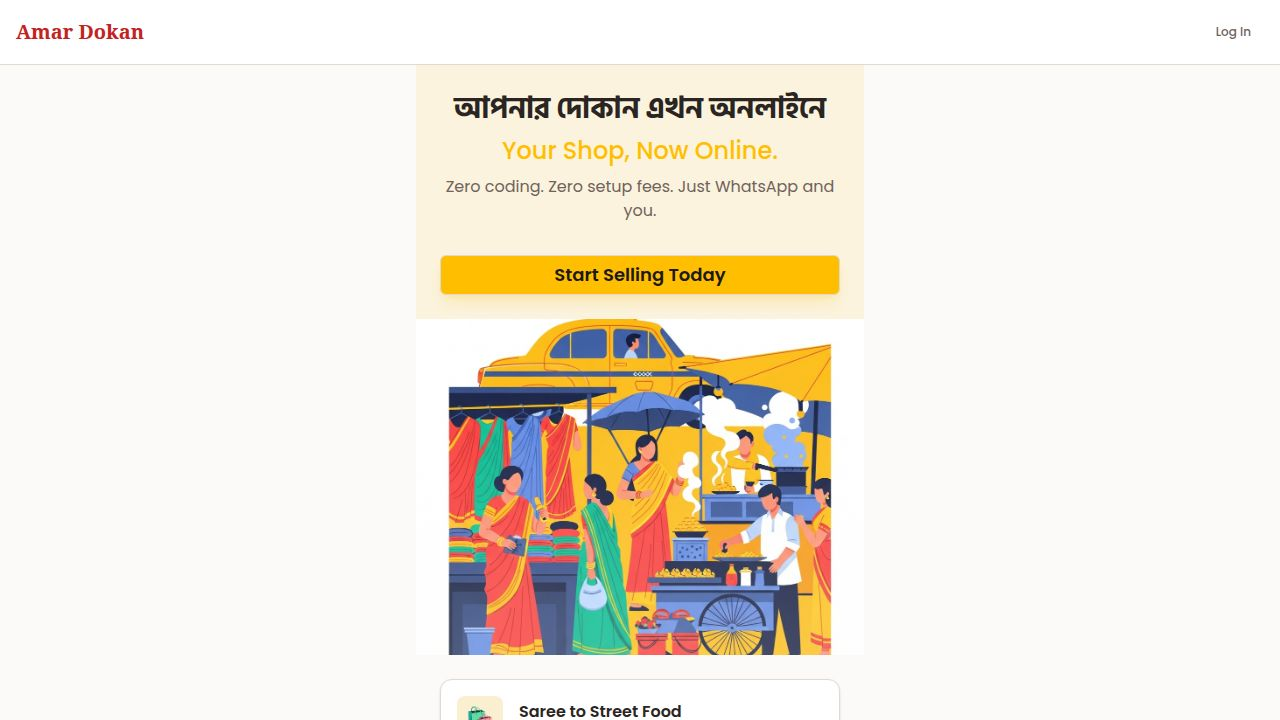
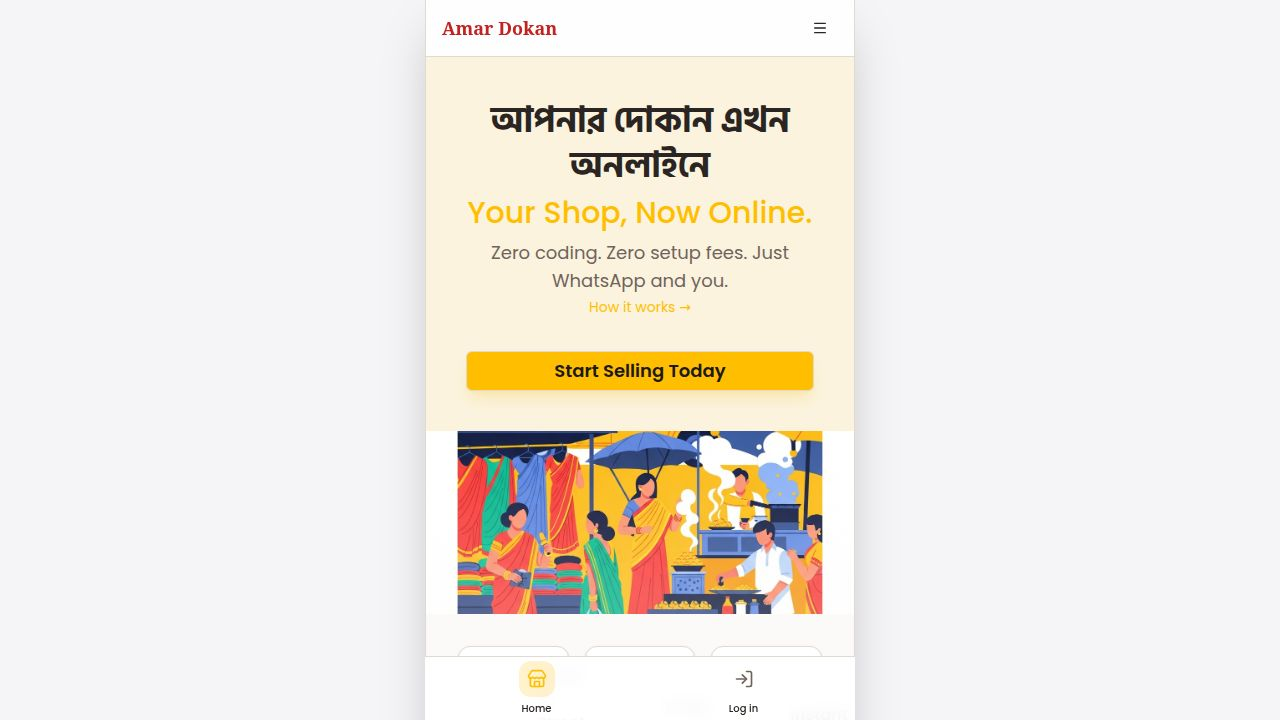
Adapt application for mobile use with new navigation and layout
Refactors the UI to create a mobile-first experience by implementing a fixed bottom navigation, centering content within a mobile viewport, and adjusting styles for better ergonomics. Updates `Layout.tsx`, `index.css`, and `package.json` dependencies.

Replit-Commit-Author: Agent
Replit-Commit-Session-Id: f4096d42-7b44-4de4-9cac-7a31e60f3b27
Replit-Commit-Checkpoint-Type: full_checkpoint
Replit-Commit-Event-Id: ce4902e4-e2da-414b-917a-235175e72699
Replit-Commit-Screenshot-Url: https://storage.googleapis.com/screenshot-production-us-central1/d6604bbd-61ac-47e6-9886-1414db4e4f31/f4096d42-7b44-4de4-9cac-7a31e60f3b27/MCDurxi
Replit-Helium-Checkpoint-Created: true

diff --git a/client/src/components/Layout.tsx b/client/src/components/Layout.tsx
@@ -41,63 +41,22 @@ export function Layout({ children, variant = "default", showSellerNav = false }:
   ];
 
   return (
-    <div className="min-h-screen bg-background flex flex-col">
+    <div className="min-h-screen bg-background flex flex-col max-w-[430px] mx-auto shadow-2xl border-x overflow-hidden relative">
       <header
         className={cn(
           "sticky top-0 z-50 border-b bg-white/95 backdrop-blur supports-[backdrop-filter]:bg-white/80",
           isMinimal && "py-2"
         )}
       >
-        <div className="w-full max-w-6xl mx-auto px-4 flex justify-between items-center h-14">
-          <Link href="/" className="font-bold text-xl text-secondary font-serif hover:opacity-90">
+        <div className="w-full px-4 flex justify-between items-center h-14">
+          <Link href="/" className="font-bold text-lg text-secondary font-serif hover:opacity-90">
             Amar Dokan
           </Link>
-
-          {/* Desktop nav */}
-          <nav className="hidden sm:flex items-center gap-1">
-            {navLinks.map((link) => {
-              const { href, label, icon: Icon, isLogout } = link as typeof link & { isLogout?: boolean };
-              if (isLogout) {
-                return (
-                  <Button
-                    key="logout"
-                    variant="ghost"
-                    size="sm"
-                    className="text-muted-foreground hover:text-foreground"
-                    onClick={() => {
-                      logout().catch(() => {});
-                      clearStoredStore();
-                      window.location.href = "/";
-                    }}
-                  >
-                    <Icon className="w-4 h-4 mr-1.5 sm:mr-0 sm:hidden" />
-                    {label}
-                  </Button>
-                );
-              }
-              return (
-                <Link key={href} href={href}>
-                  <Button
-                    variant={location === href ? "secondary" : "ghost"}
-                    size="sm"
-                    className={cn(
-                      "text-muted-foreground",
-                      location === href && "text-secondary-foreground bg-secondary hover:bg-secondary/80 hover:text-shadow-muted"
-                    )}
-                  >
-                    <Icon className="w-4 h-4 mr-1.5 sm:mr-0 sm:hidden" />
-                    {label}
-                  </Button>
-                </Link>
-              );
-            })}
-          </nav>
 
           {/* Mobile menu trigger */}
           <Button
             variant="ghost"
             size="icon"
-            className="sm:hidden"
             onClick={() => setMobileMenuOpen((o) => !o)}
             aria-label="Toggle menu"
           >
@@ -107,7 +66,7 @@ export function Layout({ children, variant = "default", showSellerNav = false }:
 
         {/* Mobile nav */}
         {mobileMenuOpen && (
-          <div className="sm:hidden border-t bg-white px-4 py-3 flex flex-col gap-1">
+          <div className="absolute top-14 left-0 right-0 border-t bg-white px-4 py-3 flex flex-col gap-1 shadow-lg z-50">
             {navLinks.map((link) => {
               const { href, label, icon: Icon, isLogout } = link as typeof link & { isLogout?: boolean };
               if (isLogout) {
@@ -144,10 +103,28 @@ export function Layout({ children, variant = "default", showSellerNav = false }:
         )}
       </header>
 
-      <main className="flex-1 flex flex-col">{children}</main>
+      <main className="flex-1 flex flex-col overflow-y-auto pb-20">{children}</main>
+
+      {/* Bottom Navigation for Mobile Feel */}
+      <nav className="fixed bottom-0 left-1/2 -translate-x-1/2 w-full max-w-[430px] border-t bg-white/95 backdrop-blur h-16 flex items-center justify-around px-2 z-40">
+        {navLinks.filter(l => !l.isLogout).slice(0, 4).map((link) => {
+          const { href, label, icon: Icon } = link;
+          return (
+            <Link key={href} href={href} className="flex flex-col items-center gap-1">
+              <div className={cn(
+                "p-2 rounded-xl transition-colors",
+                location === href ? "bg-primary/20 text-primary" : "text-muted-foreground"
+              )}>
+                <Icon className="w-5 h-5" />
+              </div>
+              <span className="text-[10px] font-medium">{label}</span>
+            </Link>
+          );
+        })}
+      </nav>
 
       {!isMinimal && (
-        <footer className="py-6 text-center text-sm text-muted-foreground bg-muted/30 border-t mt-auto">
+        <footer className="py-4 text-center text-[10px] text-muted-foreground bg-muted/30 border-t mb-16">
           <p>Made with ❤ in Kolkata</p>
         </footer>
       )}

diff --git a/client/src/index.css b/client/src/index.css
@@ -104,6 +104,6 @@
     @apply border-border;
   }
   body {
-    @apply font-sans antialiased bg-background text-foreground;
+    @apply font-sans antialiased bg-[#f5f5f7] text-foreground flex items-center justify-center min-h-screen overflow-x-hidden;
   }
 }
